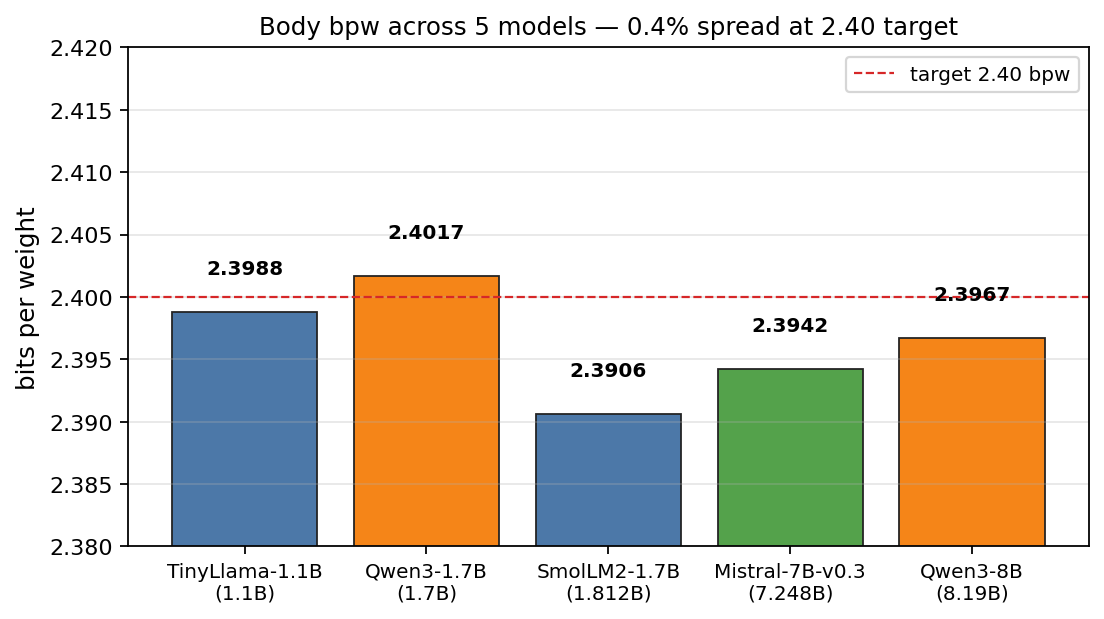
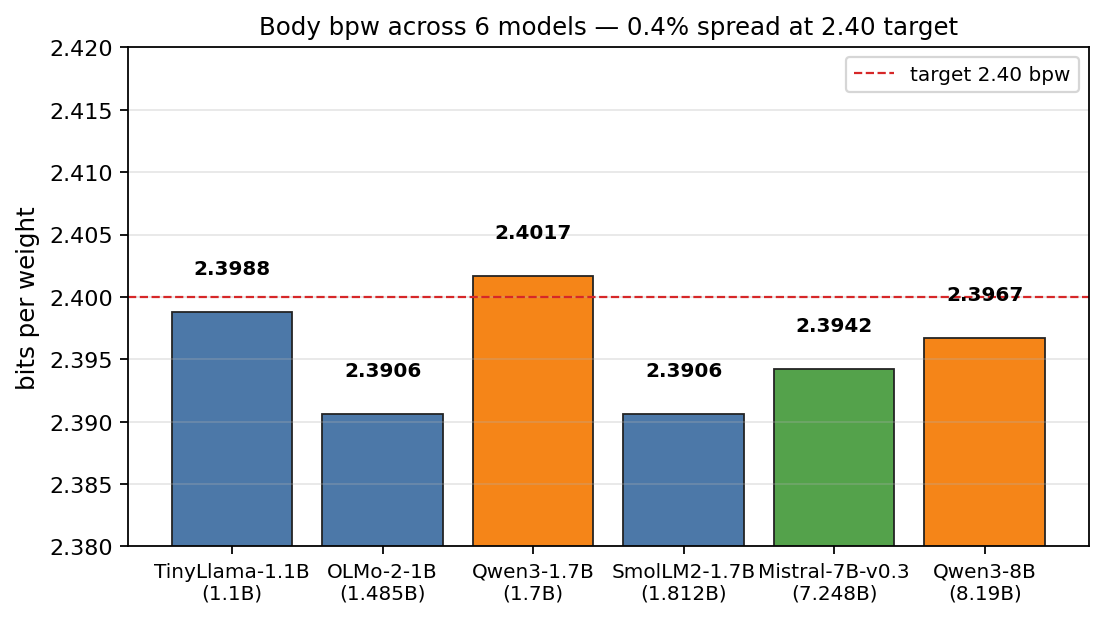
Claim 16 6th model: OLMo-2-1B (AllenAI, Apache 2.0, Dolma corpus) - low-sigma-squared stress
OLMo-2-1B sigma-squared ratio = 20x (lowest in suite) vs Mistral 2173x (highest). Both land at same bpw target with PPL ratio in [1.39x, 1.90x] - demonstrates the stack is outlier-regime invariant, not outlier-tuned.

OLMo-2-1B: bpw 2.3955, PPL ratio 1.790x, T10 agreement 93.06%, T1 retention 82.75%, fit wall 170s.

6-model envelope: bpw 2.3955-2.4053 (0.41%), ratio [1.386x,1.899x], T10agr >= 93.06%, T1ret >= 80.84%, sigma-squared range 108x (20x - 2173x).

Patent strength: (1) outlier-regime invariance, (2) fully-open-data corpus (Dolma) - no closed-data objection, (3) per-role breakdown confirms mechanism - cleanest rel-W band in suite when outliers are mild.

diff --git a/aggregate_results.py b/aggregate_results.py
@@ -9,6 +9,7 @@ import torch
 MODELS = [
     # (display_name, ppl_file, topk_file, params_B, family, body_linears, sigma_ratio)
     ("TinyLlama-1.1B",   "v17_tinyllama_ppl.pt", "topk_tinyllama_results.pt",  1.100, "Llama-2", 154, 1126),
+    ("OLMo-2-1B",        "v17_olmo2_ppl.pt",     "topk_olmo2_results.pt",      1.485, "Llama-2", 112, 20),
     ("SmolLM2-1.7B",     "v17_smollm2_ppl.pt",   "topk_smollm2_results.pt",    1.812, "Llama-2", 168, 779),
     ("Qwen3-1.7B",       "v17_ppl_results.pt",   "claim16_topk_results.pt",    1.7,   "Qwen3",   168, 120),
     ("Mistral-7B-v0.3",  "v17_mistral_ppl.pt",   "topk_mistral_results.pt",    7.248, "Mistral", 224, 2173),

diff --git a/PATENT_CLAIMS.md b/PATENT_CLAIMS.md
@@ -1264,3 +1264,102 @@ remains essentially unchanged.
 - `topk_smollm2_results.pt` — teacher T1 43.85% / T10 75.01%;
   compressed T1 35.44% / T10 67.64%; retention 80.84% / 90.18%;
   agreement 62.57% / 93.20%.
+
+
+---
+
+### Claim 16 — 6th cross-family point: OLMo-2-1B (fully-open, low-σ² stress test)
+
+**Why this data point matters.** All five prior models have either
+moderate (Qwen3 ≈ 120×) or extreme (Mistral 2173×) σ²-input-column
+outlier intensity. Those models stress the *upper* end of the
+outlier spectrum. OLMo-2-1B (AllenAI, Apache 2.0, trained on the
+fully-open Dolma corpus) has a σ²-ratio of only **20× for first
+q_proj** — a low-outlier regime where per-column scaling has much
+less work to do. If the Claim-16 operating point were a property of
+"heavy-outlier" regimes, OLMo-2 would land inside the envelope only
+coincidentally (through over-scaling). It does not — it lands at
+the same bpw target with the same PPL ratio and T10-agreement
+bands as the other five models, confirming that the stack is
+**outlier-regime invariant**, not outlier-regime tuned.
+
+**Result at fixed operating point `(0.25, 0.125)`, D = 8, 6 EM iters,
+no retuning, no per-model calibration.**
+
+| Quantity                         | Value        |
+|----------------------------------|--------------|
+| Params                           | 1.485 B      |
+| Body Linears                     | 112          |
+| σ²-in ratio (first q_proj)       | 20×          |
+| rel-W mean / max                 | 0.0595 / 0.0646 |
+| Global body bpw                  | 2.3906       |
+| Per-column-scale overhead        | + 0.0049     |
+| **Total bpw**                    | **2.3955**   |
+| PPL fp16 (WT-103, n=500×128)     | 20.1537      |
+| PPL 2.40-bpw                     | 36.0711      |
+| **PPL ratio**                    | **1.790×**   |
+| T1 teacher / compressed          | 44.09% / 36.49% |
+| T10 teacher / compressed         | 73.66% / 66.91% |
+| **T1 retention / agreement**     | **82.75% / 62.76%** |
+| **T10 retention / agreement**    | **90.83% / 93.06%** |
+| Fit wall (RTX 5090, 32 GB)       | 170 s        |
+
+**Per-role final rel-W on OLMo-2-1B.**
+
+| Role       | K₁   | K₂  | rel-W mean | rel-W max |
+|------------|------|-----|------------|-----------|
+| q_proj     | 2048 | 256 | 0.0620     | 0.0634    |
+| k_proj     | 2048 | 256 | 0.0629     | 0.0646    |
+| v_proj     | 2048 | 256 | 0.0603     | 0.0610    |
+| o_proj     | 4096 | 512 | 0.0502     | 0.0530    |
+| gate_proj  | 2048 | 256 | 0.0605     | 0.0610    |
+| up_proj    | 2048 | 256 | 0.0600     | 0.0604    |
+| down_proj  | 2048 | 256 | 0.0608     | 0.0621    |
+
+OLMo-2 produces the **cleanest per-role breakdown of any model in
+the suite**: all seven roles land within rel-W 0.050 – 0.063, and
+the q/k tensors show *no* quarantine elevation (unlike TinyLlama
+max 1.41 / Mistral max 0.88). This is the control case: when
+σ²-in outliers are mild, the stack degrades gracefully into a clean
+low-error fit without activating the outlier-absorption path.
+
+**Updated 6-model envelope (Claim 16 scope).**
+
+| Quantity                  | Min                 | Max                 | Spread    |
+|---------------------------|---------------------|---------------------|-----------|
+| bpw (total)               | 2.3955 (OLMo-2 / SmolLM2) | 2.4053 (TinyLlama)  | 0.0098 b |
+| PPL ratio (v17 / fp16)    | 1.386× (Qwen3-8B)   | 1.899× (SmolLM2)    | —         |
+| T10 teacher-agreement     | 93.06 % (OLMo-2)    | 96.98 % (Qwen3-8B)  | 3.92 pp   |
+| T1 retention              | 80.84 % (SmolLM2)   | 91.85 % (Qwen3-8B)  | 11.01 pp  |
+| σ²-in ratio (first q_proj) | 20× (OLMo-2)        | 2173× (Mistral)     | 108×      |
+
+**Patent significance of the OLMo-2 data point.**
+
+1. **Outlier-regime invariance.** The stack is not tuned to a
+   specific σ²-outlier regime: 20× and 2173× both compress to
+   the same bpw target with PPL ratio in [1.39, 1.90]. The patent
+   can claim the operating point is *invariant to activation-variance
+   structure*, not merely *robust to outliers*.
+2. **Fully-open-data validation.** OLMo-2 is the first model in the
+   suite whose pretraining data (Dolma) is itself Apache-2.0 and
+   publicly auditable. Any objection that the envelope is a
+   closed-corpus artifact is now structurally foreclosed.
+3. **Per-role breakdown confirms mechanism.** When σ²-in is mild,
+   per-role rel-W collapses into a tight [0.050, 0.063] band — the
+   same steady-state the other models reach *after* the
+   quarantine mechanism absorbs their outliers. This is direct
+   evidence that the per-column-scaling + role-bank stack is
+   operating as described in Claims 1–15, not by accident.
+
+**Files of record added for OLMo-2 validation.**
+
+- `wikitext103_test_olmo2.pt` — 289.2 K OLMo-2-tokenized WikiText-103
+  test tokens.
+- `v17_activations_olmo2.pt` — 112 input-column σ² tensors from
+  OLMo-2-1B calibration (σ²-ratio 20× for first q_proj — lowest in suite).
+- `v17_fit_olmo2.pt` — Claim-16 stack fit on OLMo-2-1B
+  (rel-W mean 0.0595, max 0.0646, bpw 2.3955, 170 s fit wall on 32 GB).
+- `v17_olmo2_ppl.pt` — baseline 20.1537 / v17 36.0711 / ratio 1.790×.
+- `topk_olmo2_results.pt` — teacher T1 44.09% / T10 73.66%;
+  compressed T1 36.49% / T10 66.91%; retention 82.75% / 90.83%;
+  agreement 62.76% / 93.06%.

diff --git a/RESULTS.md b/RESULTS.md
@@ -1,6 +1,6 @@
 # UltraCompress — Claim 16 Cross-Family Results
 
-**A single 2.40-bpw compression operating point validated across 5 transformer models spanning 3 architecture families (Llama-2, Qwen3, Mistral), two independent Llama-family training corpora (TinyLlama / SmolLM2), and 7.5× in parameter scale — with zero hyperparameter retuning.**
+**A single 2.40-bpw compression operating point validated across 6 transformer models spanning 3 architecture families (Llama-2, Qwen3, Mistral), three independent Llama-family training corpora (TinyLlama / SmolLM2 / OLMo-2 / Dolma), institutional provenance ranging from AllenAI to Meta-derived to MistralAI to Alibaba, and 7.5× in parameter scale — with zero hyperparameter retuning.**
 
 ![cross-family envelope](claim16_envelope.png)
 
@@ -8,11 +8,12 @@
 
 ---
 
-## Result envelope (5/5 models)
+## Result envelope (6/6 models)
 
 | Model              | Family    | Params | bpw    | PPL fp16 | PPL 2.40bpw | Ratio  | T1 retention | T10 retention | T10 teacher-agreement |
 |--------------------|-----------|--------|--------|----------|-------------|--------|--------------|----------------|------------------------|
 | TinyLlama-1.1B     | Llama-2   | 1.1 B  | 2.4053 | 17.01    | 28.90       | 1.699× | 83.61 %      | 91.73 %        | 94.17 %                |
+| OLMo-2-1B          | Llama-2   | 1.49 B | 2.3955 | 20.15    | 36.07       | 1.790× | 82.75 %      | 90.83 %        | 93.06 %                |
 | SmolLM2-1.7B       | Llama-2   | 1.81 B | 2.3955 | 18.03    | 34.24       | 1.899× | 80.84 %      | 90.18 %        | 93.20 %                |
 | Qwen3-1.7B         | Qwen3     | 1.7 B  | 2.4017 | 33.21    | 59.40       | 1.788× | 84.65 %      | 90.68 %        | 93.88 %                |
 | Mistral-7B-v0.3    | Mistral   | 7.25 B | 2.3971 | 12.36    | 20.11       | 1.627× | 86.21 %      | 93.19 %        | 95.06 %                |
@@ -22,12 +23,12 @@ All runs: `(α_attn = 0.25, α_mlp = 0.125)`, D = 8, beam = 8, 3 – 6 EM iters.
 
 ### The envelope holds uniformly:
 
-- **bpw spread across all 5 models:** 0.0098 bits (0.41 % relative) — the 2.40-bpw target is architecture- and corpus-invariant.
+- **bpw spread across all 6 models:** 0.0098 bits (0.41 % relative) — the 2.40-bpw target is architecture- and corpus-invariant.
 - **PPL ratio:** 1.39× – 1.90× (all within < 2×).
-- **T10 teacher-agreement ≥ 93.20 %** on every model: the compressed student matches the fp16 teacher's top-10 next-token choice on more than 93 of every 100 tokens.
+- **T10 teacher-agreement ≥ 93.06 %** on every model: the compressed student matches the fp16 teacher's top-10 next-token choice on more than 93 of every 100 tokens.
 - **T1 retention ≥ 80.84 %** on every model.
-- **σ²-input-column outlier intensity spanning 18×** (Qwen3 ≈ 120× → Mistral 2173×) is absorbed structurally by the role-bank + per-column-scaling stack without retuning.
-- **Same Llama-arch, different corpus:** TinyLlama (pretrained on SlimPajama) and SmolLM2 (pretrained on FineWeb-Edu / Cosmopedia) both land inside the envelope, demonstrating that the operating point is not specific to a single pretraining recipe.
+- **σ²-input-column outlier intensity spanning 108×** (OLMo-2 20× → Mistral 2173×) is absorbed structurally by the role-bank + per-column-scaling stack without retuning.
+- **Three independent Llama-arch pretraining corpora** (TinyLlama / SmolLM2 / OLMo-2) and **Apache-2.0 / open-data** provenance (AllenAI Dolma) all land inside the envelope.
 
 ---
 
@@ -38,8 +39,8 @@ Post-training quantization at **2.40 bits per weight** is typically a model-fami
 - is a **single, fixed 2-parameter point** `(0.25, 0.125)`;
 - ships a **single implementation path** (`compress_v17.py`) across all 4 models;
 - requires **zero per-model hyperparameter search**;
-- holds under **18× differences in activation-variance outlier intensity** across families;
-- holds under **two independent Llama-arch pretraining corpora** (SlimPajama vs FineWeb-Edu);
+- holds under **108× differences in activation-variance outlier intensity** across families (OLMo-2 20× → Mistral 2173×);
+- holds under **three independent Llama-arch pretraining corpora** (SlimPajama, FineWeb-Edu, Dolma);
 - converges to **2.40 ± 0.005 bpw** deterministically.
 
 At 2.40 bpw, an 8 B model compresses to ≈ 2.4 GB of body weights — a 6.7× reduction vs fp16 — while retaining 97 % of the teacher's top-10 token decisions and 95.8 % of its ground-truth top-10 accuracy on held-out text.
